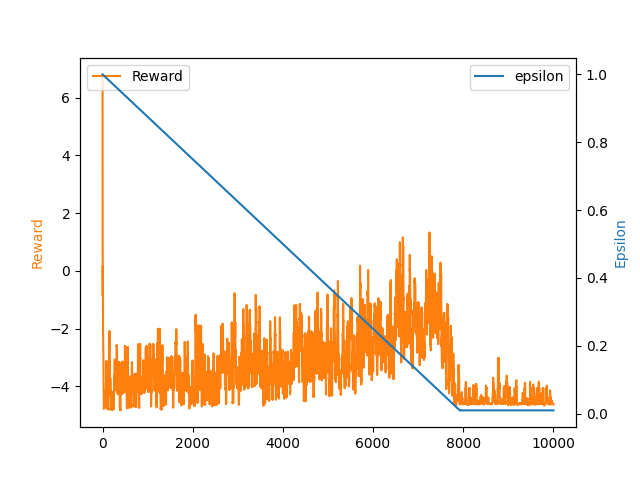
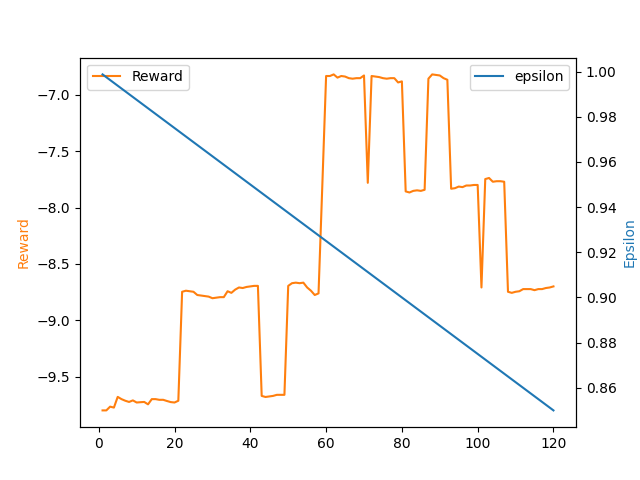
log norm and reward

diff --git a/sumo_mmrl/environment/env.py b/sumo_mmrl/environment/env.py
@@ -1,5 +1,6 @@
 """  """
 
+import math
 import numpy as np
 from .connect import SUMOConnection
 from .net_parser import NetParser
@@ -130,8 +131,8 @@ class Env:
         state.extend(vedge_loc)
         state.extend(dest_edge_loc)
         state.append(self.sumo.simulation.getTime())
-        state.append(edge_distance)
-        state = self.normalize(state, 0, 1)
+        state.append(math.log(edge_distance+1))
+        # state = self.normalize(state, 0, 1)
         state.append(new_dist_check)
         state.extend(outmask)
         self.stage = "pickup"
@@ -143,7 +144,7 @@ class Env:
         vedge = self.vehicle.get_road()
 
         if self.steps >= self.steps_per_episode:
-            self.reward += -10
+            self.reward += -100
             self.stage = "done"
 
         while not self.make_choice_flag and self.stage != "done":
@@ -201,7 +202,7 @@ class Env:
                 self.reward += 10
                 match self.stage:
                     case "pickup":
-                        self.reward += 1
+                        self.reward += 10
                         print(self.stage + " ", end="")
                         self.stage = "dropoff"
                         self.make_choice_flag = True
@@ -210,7 +211,7 @@ class Env:
                             ).partition("_")[0]
 
                     case "dropoff":
-                        self.reward += 1
+                        self.reward += 10
                         print(self.stage + " ", end="")
                         self.stage = "onbus"  # for test. change back to onbus
                         next_route_edge = self.bussroute[1].partition("_")[0]
@@ -218,7 +219,7 @@ class Env:
                         self.make_choice_flag = True
 
                     case "onbus":
-                        self.reward += 1
+                        self.reward += 10
                         print(self.stage + " ", end="")
                         self.stage = "final"
                         self.make_choice_flag = True
@@ -235,17 +236,18 @@ class Env:
                             dest_loc[1])
 
                     case "final":
+                        self.reward += 100
                         print(self.stage + " ", end="")
                         self.stage = "done"
                         self.make_choice_flag = True
-                        self.reward += 1
+                       
 
             state = []
             state.extend(vedge_loc)
             state.extend(dest_edge_loc)
             state.append(self.sumo.simulation.getTime())
-            state.append(edge_distance)
-            state = self.normalize(state, 0, 1)
+            state.append(math.log(edge_distance+1))
+            # state = self.normalize(state, 0, 1)
             state.append(new_dist_check)
             state.extend(outmask)
             self.old_edge = vedge
@@ -263,15 +265,15 @@ class Env:
         )
 
         self.stage = "done"
-        self.reward += -5
+        self.reward += -10
         self.make_choice_flag = False
 
         state = []
         state.extend(vedge_loc)
         state.extend(dest_edge_loc)
         state.append(self.sumo.simulation.getTime())
-        state.append(edge_distance)
-        state = self.normalize(state, 0, 1)
+        state.append(math.log(edge_distance+1))
+        # state = self.normalize(state, 0, 1)
         state.append(new_dist_check)
         state.extend(outmask)
         self.old_edge = vedge
@@ -320,7 +322,6 @@ class Env:
 
     def manhat_dist(self, x1, y1, x2, y2):
         return abs(x1 - x2) + abs(y1 - y2)
-
 
     def normalize(self, arr, t_min, t_max):
         norm_arr = []

diff --git a/sumo_mmrl/agent/dqn.py b/sumo_mmrl/agent/dqn.py
@@ -13,11 +13,14 @@ class DQN(nn.Module):
             "cuda" if T.cuda.is_available() else "cpu"
         )
         self.layer1 = nn.Linear(state_size, 16)
+        nn.init.uniform_(self.layer1.weight, 0, 1)
 
         self.layer2 = nn.Linear(16, 8)
+        nn.init.uniform_(self.layer2.weight, 0, 1)
         # self.layer2b = nn.Linear(64, 32)
 
         self.layer3 = nn.Linear(8, action_size)
+        nn.init.uniform_(self.layer3.weight, 0, 1)
 
     def forward(self, x_net):
 

diff --git a/sumo_mmrl/agent/driver_agent.py b/sumo_mmrl/agent/driver_agent.py
@@ -33,7 +33,7 @@ class Dagent:
         self.epsilon_max = 1
         self.decay = 0.999
         self.epsilon_min = 0.01
-        self.learning_rate = 0.001
+        self.learning_rate = 0.01
         
         device = T.device(  # pylint: disable=E1101
             "cuda" if T.cuda.is_available() else "cpu"

diff --git a/test.py b/test.py
@@ -2,7 +2,7 @@ from sumo_mmrl import Dagent
 from sumo_mmrl.environment.env import Env
 
 # import time
-EPISODES = 10_000
+EPISODES = 1_000
 STEPS = 1000
 BATCH_SIZE = 32
 MIN_MEMORY = 2000
